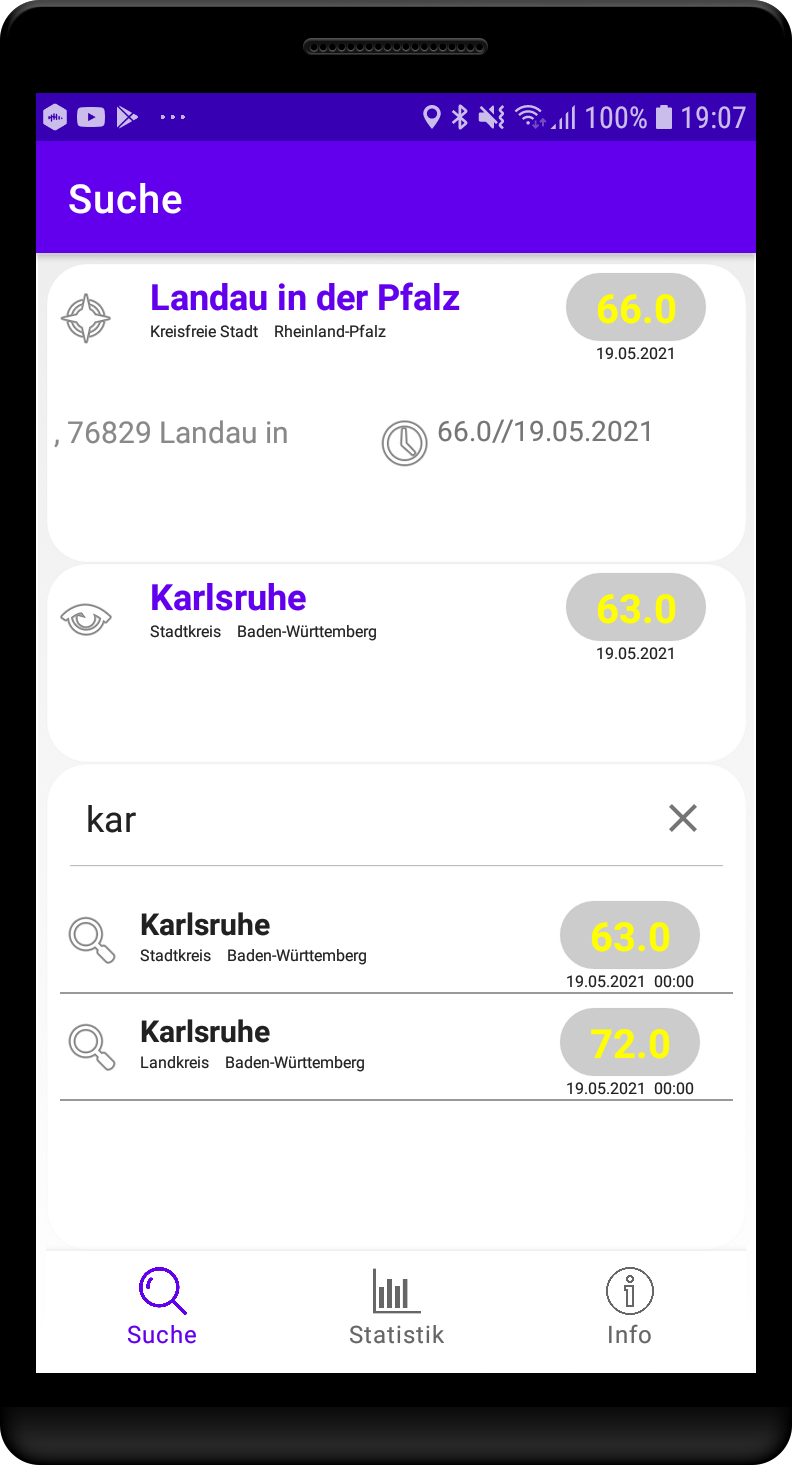
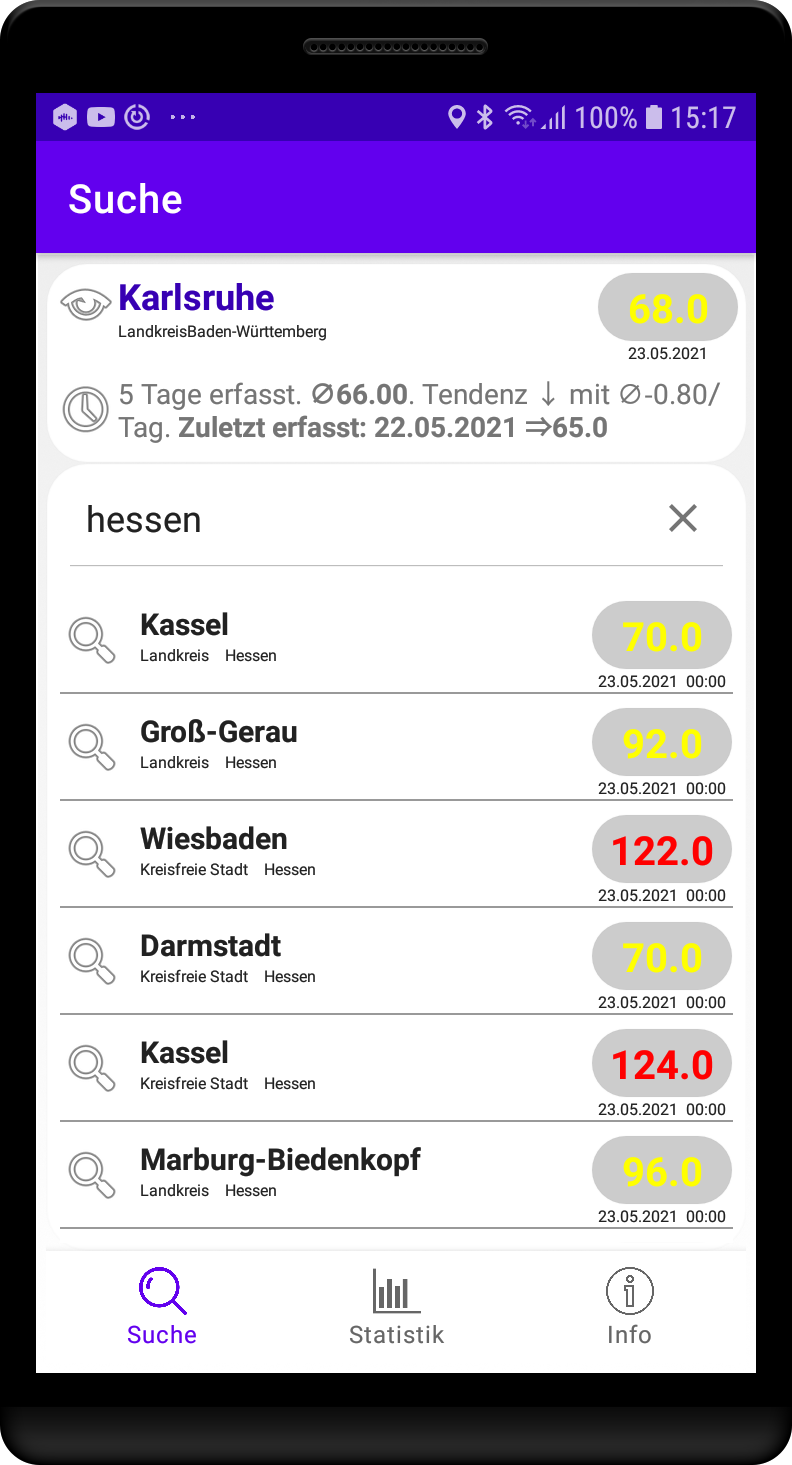
Added staticstical overwiew for local und fav. lication.

diff --git a/app/src/main/java/com/berthold/covidinfo/ui/home/FragmentLocalData.java b/app/src/main/java/com/berthold/covidinfo/ui/home/FragmentLocalData.java
@@ -23,6 +23,7 @@ import android.widget.TextView;
 import androidx.annotation.NonNull;
 import androidx.annotation.Nullable;
 import androidx.core.app.ActivityCompat;
+import androidx.core.text.HtmlCompat;
 import androidx.fragment.app.Fragment;
 import androidx.lifecycle.Observer;
 import androidx.lifecycle.ViewModelProviders;
@@ -52,7 +53,7 @@ public class FragmentLocalData extends Fragment implements LocationListener {
 
     // UI
     TextView townView, bezView, bundeslandView, casesPer10KView, lasUpdateView, localAddressView, localStatisticsView;
-    ProgressBar networkIsUpdating, locationIsUpdating;
+    View waiting;
 
     public FragmentLocalData() {
         // Empty!
@@ -77,8 +78,9 @@ public class FragmentLocalData extends Fragment implements LocationListener {
         fragmentLocalDataViewModel = ViewModelProviders.of(requireActivity()).get(FragmentLocalDataViewModel.class);
 
         // UI
-        networkIsUpdating = view.findViewById(R.id.network_is_updating_progress);
-        locationIsUpdating = view.findViewById(R.id.location_is_updating_progress);
+        waiting = view.findViewById(R.id.waiting);
+        waiting.setVisibility(View.VISIBLE);
+
         townView = view.findViewById(R.id.town);
         bezView = view.findViewById(R.id.bez);
         bundeslandView = view.findViewById(R.id.bundesland);
@@ -131,9 +133,14 @@ public class FragmentLocalData extends Fragment implements LocationListener {
             @Override
             public void onChanged(@Nullable List<CovidSearchResultData> covidSearchResultData) {
 
-                fragmentLocalDataViewModel.networkIsUpdating().setValue(false);
 
                 if (covidSearchResultData != null) {
+
+                    waiting.setVisibility(View.GONE);
+                    // ToDo Strangely the waiting- view does not disappear when vew.gone is used... this does....
+                    waiting.setAlpha(0);
+
+
                     for (CovidSearchResultData r : covidSearchResultData) {
                         townView.setText(r.getName());
                         bezView.setText(r.getBez());
@@ -148,33 +155,6 @@ public class FragmentLocalData extends Fragment implements LocationListener {
                 }
             }
         });
-
-        //
-        // Receives status update when covid data is fetched from the network
-        //
-        fragmentLocalDataViewModel.networkIsUpdating().observe(getViewLifecycleOwner(), new Observer<Boolean>() {
-            @Override
-            public void onChanged(Boolean isUpdating) {
-                if (isUpdating)
-                    networkIsUpdating.setVisibility(View.VISIBLE);
-                else
-                    networkIsUpdating.setVisibility(View.GONE);
-            }
-        });
-
-        //
-        // Receives status updates when the location manager is working.
-        //
-        fragmentLocalDataViewModel.getLocationIsUpdating().observe(getViewLifecycleOwner(), new Observer<Boolean>() {
-            @Override
-            public void onChanged(Boolean isUpdating) {
-                if (isUpdating)
-                    locationIsUpdating.setVisibility(View.VISIBLE);
-                else
-                    locationIsUpdating.setVisibility(View.GONE);
-            }
-        });
-
 
         //
         // Receives the full address of your location
@@ -192,14 +172,10 @@ public class FragmentLocalData extends Fragment implements LocationListener {
         //
         // Receives statistics (older data saved inside the database) for the current location
         //
-        fragmentLocalDataViewModel.getStatisticsData().observe(getViewLifecycleOwner(), new Observer<List<CovidSearchResultData>>() {
+        fragmentLocalDataViewModel.getStatisticsData().observe(getViewLifecycleOwner(), new Observer<String>() {
             @Override
-            public void onChanged(List<CovidSearchResultData> s) {
-                int l = s.size() - 1;
-
-                String result = s.get(l-1).getCasesPer10K() + " " + s.get(l-1).getLastUpdate() + "\n";
-                localStatisticsView.setText(result);
-
+            public void onChanged(String result) {
+                localStatisticsView.setText(HtmlCompat.fromHtml(result, 0));
             }
         });
     }
@@ -262,7 +238,6 @@ public class FragmentLocalData extends Fragment implements LocationListener {
             }
 
             locationManager.requestLocationUpdates(LocationManager.GPS_PROVIDER, UPDATE_LOCATION_EVERY_MS, UPDATE_WHEN_DEV_IS_MOVED_MORE_THAN_X_METERS, this);
-            fragmentLocalDataViewModel.getLocationIsUpdating().postValue(true);
             Log.v("LOCLOC_UP", "started");
         }
     }
@@ -287,8 +262,6 @@ public class FragmentLocalData extends Fragment implements LocationListener {
                 final String city;
 
                 try {
-                    fragmentLocalDataViewModel.getLocationIsUpdating().postValue(true);
-
                     DecimalFormat df = new DecimalFormat();
                     df.setMaximumFractionDigits(3);
 
@@ -317,10 +290,8 @@ public class FragmentLocalData extends Fragment implements LocationListener {
                     // This invokes the associated observer
                     fragmentLocalDataViewModel.localAddress().postValue(addressLine);
 
-                    fragmentLocalDataViewModel.getLocationIsUpdating().postValue(false);
-
                 } catch (Exception e) {
-                    fragmentLocalDataViewModel.localAddress().postValue("Ups, on error occured where it should not..." + e.toString());
+                    fragmentLocalDataViewModel.localAddress().postValue("Ups, an error occured where it should not..." + e.toString());
                 }
             }
         }).start();

diff --git a/app/src/main/java/com/berthold/covidinfo/ui/home/CovidDataEvaluate.java b/app/src/main/java/com/berthold/covidinfo/ui/home/CovidDataEvaluate.java
@@ -1,0 +1,85 @@
+package com.berthold.covidinfo.ui.home;
+
+import android.util.Log;
+
+import com.berthold.covidinfo.CovidDataBase;
+
+import java.sql.Connection;
+import java.util.ArrayList;
+import java.util.List;
+
+import berthold.trendAnalyzer.DataToAnalyze;
+
+public class CovidDataEvaluate {
+
+    private static int NUMBER_OF_DAYS_TO_ANALYZE=30;
+
+    /**
+     * Builds a string containing a short description of of the
+     * latest development on the basis of the available data.
+     *
+     * @param name
+     * @param bundesland
+     * @param bez
+     * @param covidDataBase
+     * @return
+     */
+    public static String getTrend(String name, String bundesland, String bez, Connection covidDataBase) {
+
+        List<CovidSearchResultData> covidDataSet = new ArrayList<>();
+        covidDataSet = CovidDataBase.getEntry(name, bundesland, bez, covidDataBase);
+        StringBuilder result = new StringBuilder();
+        DataToAnalyze covidData=new DataToAnalyze(NUMBER_OF_DAYS_TO_ANALYZE);
+
+        // Get data and init statistics tool.
+        for (CovidSearchResultData d : covidDataSet)
+            covidData.add(d.getCasesPer10K());
+
+        int numberOfDaysAdded=covidData.getDataset().size();
+
+        // Build description.....
+        if (numberOfDaysAdded>1) {
+
+            // Total average value...
+            double avrTotal = covidData.getAverage();
+            String avrTotalFormated = String.format("%.2f", avrTotal);
+
+            // Days stored...
+            String daysAnalyzed = numberOfDaysAdded + " Tage erfasst. <b>&empty;" + avrTotalFormated + "</b>. Tendenz ";
+            result.append(daysAnalyzed);
+
+            // What's the trend?
+            double trend = covidData.getAverageSlope();
+            String trendDescription = "(zu wenig Daten)";
+
+            if (trend > 0)
+                trendDescription = "&uarr; ";
+            if (trend == 0)
+                trendDescription = "&rarr; ";
+            if (trend < 0)
+                trendDescription = "&darr; ";
+
+            result.append(trendDescription);
+
+            // Average sum of changes...
+            double avrSumOfChanges = covidData.getAverageSlope();
+            String avrSumOfChangesFormated = String.format("%.2f", avrSumOfChanges);
+
+            String avrDesc;
+            if (trend>0 || trend <0)
+                avrDesc = "mit &empty;" + avrSumOfChangesFormated + "/Tag. ";
+            else
+                avrDesc="";
+
+            result.append(avrDesc);
+
+            // Last value and date is was saved...
+            double lastValue=covidDataSet.get(covidDataSet.size()-2).getCasesPer10K();
+            String lastDate=covidDataSet.get(covidDataSet.size()-2).getLastUpdate();
+            result.append("<b>Zuletzt erfasst: "+lastDate+" &rArr;"+lastValue+"</b>");
+
+            return result.toString();
+        }
+        return "Zu wenig Daten erfasst, keine Zusammenfassung möglich.";
+    }
+}

diff --git a/app/src/main/java/com/berthold/covidinfo/ui/home/FragmentLocalDataViewModel.java b/app/src/main/java/com/berthold/covidinfo/ui/home/FragmentLocalDataViewModel.java
@@ -22,18 +22,6 @@ public class FragmentLocalDataViewModel extends ViewModel implements ThreadSearc
     //
     // Live data
     //
-    // Progressbar showing updates for the network connection when fetching covid data
-    private MutableLiveData<Boolean> networkIsUpdating = new MutableLiveData<>();
-    public MutableLiveData<Boolean> networkIsUpdating() {
-        return networkIsUpdating;
-    }
-
-    // Progressbar showing location updates
-    private MutableLiveData<Boolean> locationIsUpdating = new MutableLiveData<>();
-    public MutableLiveData<Boolean> getLocationIsUpdating() {
-        return locationIsUpdating;
-    }
-
     // Covid data
     private MutableLiveData<List<CovidSearchResultData>> covidDataAsJson;
     public LiveData<List<CovidSearchResultData>> updateCovidData() {
@@ -49,8 +37,8 @@ public class FragmentLocalDataViewModel extends ViewModel implements ThreadSearc
     }
 
     // Statistics
-    private MutableLiveData<List<CovidSearchResultData>> statisticsData =new MutableLiveData<>();
-    public MutableLiveData<List<CovidSearchResultData>> getStatisticsData(){
+    private MutableLiveData<String> statisticsData =new MutableLiveData<>();
+    public MutableLiveData<String> getStatisticsData(){
         return statisticsData;
     }
 
@@ -58,8 +46,6 @@ public class FragmentLocalDataViewModel extends ViewModel implements ThreadSearc
      * Get's the data via the api from the network.
      */
     public void getCovidData(String searchQuery) {
-
-        networkIsUpdating.postValue(true);
 
         String apiAddressStadtkreise = "https://public.opendatasoft.com/api/records/1.0/search/?dataset=covid-19-germany-landkreise&q={0}&facet=last_update&facet=name&facet=rs&facet=bez&facet=bl";
 
@@ -82,7 +68,6 @@ public class FragmentLocalDataViewModel extends ViewModel implements ThreadSearc
      */
     @Override
     public void receive(List<CovidSearchResultData> covidData) {
-        networkIsUpdating.postValue(false);
         covidDataAsJson.postValue(covidData);
 
         Connection covidDataBase = MainActivity.covidDataBase;
@@ -104,9 +89,8 @@ public class FragmentLocalDataViewModel extends ViewModel implements ThreadSearc
         }
 
         // Get and publish entries for this location
-        List<CovidSearchResultData> statistcs=new ArrayList<>();
-        statistcs=CovidDataBase.getEntry(name,bundesland,bez,covidDataBase);
-        statisticsData.postValue(statistcs);
+        String result=CovidDataEvaluate.getTrend(name, bundesland, bez, covidDataBase);
+        statisticsData.postValue(result);
     }
 
     /**

diff --git a/app/src/main/java/com/berthold/covidinfo/ui/home/FragmentFavCovidDataView.java b/app/src/main/java/com/berthold/covidinfo/ui/home/FragmentFavCovidDataView.java
@@ -1,6 +1,8 @@
 package com.berthold.covidinfo.ui.home;
 
+import android.content.Context;
 import android.content.Intent;
+import android.content.SharedPreferences;
 import android.net.Uri;
 import android.os.Bundle;
 import android.transition.TransitionInflater;
@@ -11,10 +13,12 @@ import android.widget.ProgressBar;
 import android.widget.TextView;
 
 import androidx.annotation.Nullable;
+import androidx.core.text.HtmlCompat;
 import androidx.fragment.app.Fragment;
 import androidx.lifecycle.Observer;
 import androidx.lifecycle.ViewModelProviders;
 
+import com.berthold.covidinfo.MainActivity;
 import com.berthold.covidinfo.R;
 
 import java.util.List;
@@ -107,6 +111,12 @@ public class FragmentFavCovidDataView extends Fragment {
                 casesPer10KView.setTextColor(CovidDataCasesColorCoder.getColor((int) r.getCasesPer10K()));
 
                 lasUpdateView.setText(r.getLastUpdate());
+
+                // ToDo, DRY!! See View models.....
+                SharedPreferences sp= requireActivity().getPreferences(Context.MODE_PRIVATE);
+                SharedPreferences.Editor editor = sp.edit();
+                editor.putString("favLocation", r.getName() + " " + r.getBez() + " " + r.getBundesland());
+                editor.apply();
             }
         });
 
@@ -116,7 +126,8 @@ public class FragmentFavCovidDataView extends Fragment {
         fragmentFavCovidDataViewModel.getStatisticsData().observe(getViewLifecycleOwner(), new Observer<String>() {
             @Override
             public void onChanged(String result) {
-                localStatisticsView.setText(result);
+
+                localStatisticsView.setText(HtmlCompat.fromHtml(result,0));
             }
         });
 

diff --git a/app/src/main/java/com/berthold/covidinfo/ui/home/FragmentFavCovidDataViewModel.java b/app/src/main/java/com/berthold/covidinfo/ui/home/FragmentFavCovidDataViewModel.java
@@ -40,7 +40,6 @@ public class FragmentFavCovidDataViewModel extends ViewModel implements FavCovid
 
     // Statistics
     private MutableLiveData<String> statisticsData = new MutableLiveData<>();
-
     public MutableLiveData<String> getStatisticsData() {
         return statisticsData;
     }
@@ -94,20 +93,8 @@ public class FragmentFavCovidDataViewModel extends ViewModel implements FavCovid
         }
 
         // Get and publish entries for this location
-        List<CovidSearchResultData> statistcs = new ArrayList<>();
-        statistcs = CovidDataBase.getEntry(name, bundesland, bez, covidDataBase);
-
-        StringBuilder result = new StringBuilder();
-
-        for (CovidSearchResultData d : statistcs) {
-            result.append(d.getCasesPer10K() + " " + d.getLastUpdate() + " ");
-
-            if (d.beenHere())
-                result.append("BESUCHT\n\n");
-            else
-                result.append("\n\n");
-        }
-        statisticsData.postValue(result.toString());
+        String result=CovidDataEvaluate.getTrend(name, bundesland, bez, covidDataBase);
+        statisticsData.postValue(result);
     }
 
     /**

diff --git a/app/src/main/java/com/berthold/covidinfo/CovidDataBase.java b/app/src/main/java/com/berthold/covidinfo/CovidDataBase.java
@@ -227,7 +227,7 @@ public class CovidDataBase {
 
                     searchResultList.add(entry);
 
-                    Log.v ("DBMAKE",rs.getString("name")+" "+rs.getString("bundesland")+" "+rs.getString("bez")+"  "+rs.getFloat("casesPer100K"));
+                    Log.v ("DBMAKE",rs.getString("name")+" "+rs.getString("bundesland")+" "+rs.getString("bez")+"  "+"   "+rs.getString("lastUpdate")+"  "+rs.getFloat("casesPer100K"));
                 }
             } else{
                 // No matching entry found....

diff --git a/app/src/main/java/com/berthold/covidinfo/MainActivity.java b/app/src/main/java/com/berthold/covidinfo/MainActivity.java
@@ -59,7 +59,7 @@ public class MainActivity extends AppCompatActivity {
         // Show favourite location
         FragmentTransaction ft2 = manager.beginTransaction();
         ft2.setReorderingAllowed(true);
-        ft2.replace(R.id.fragment_fav_covid_data_view, new FragmentFavCovidDataView(), "Fragment_1");
+        ft2.replace(R.id.fragment_fav_covid_data_view, new FragmentFavCovidDataView(), "Fragment_2");
         ft2.commitAllowingStateLoss();
 
         // View model providers
